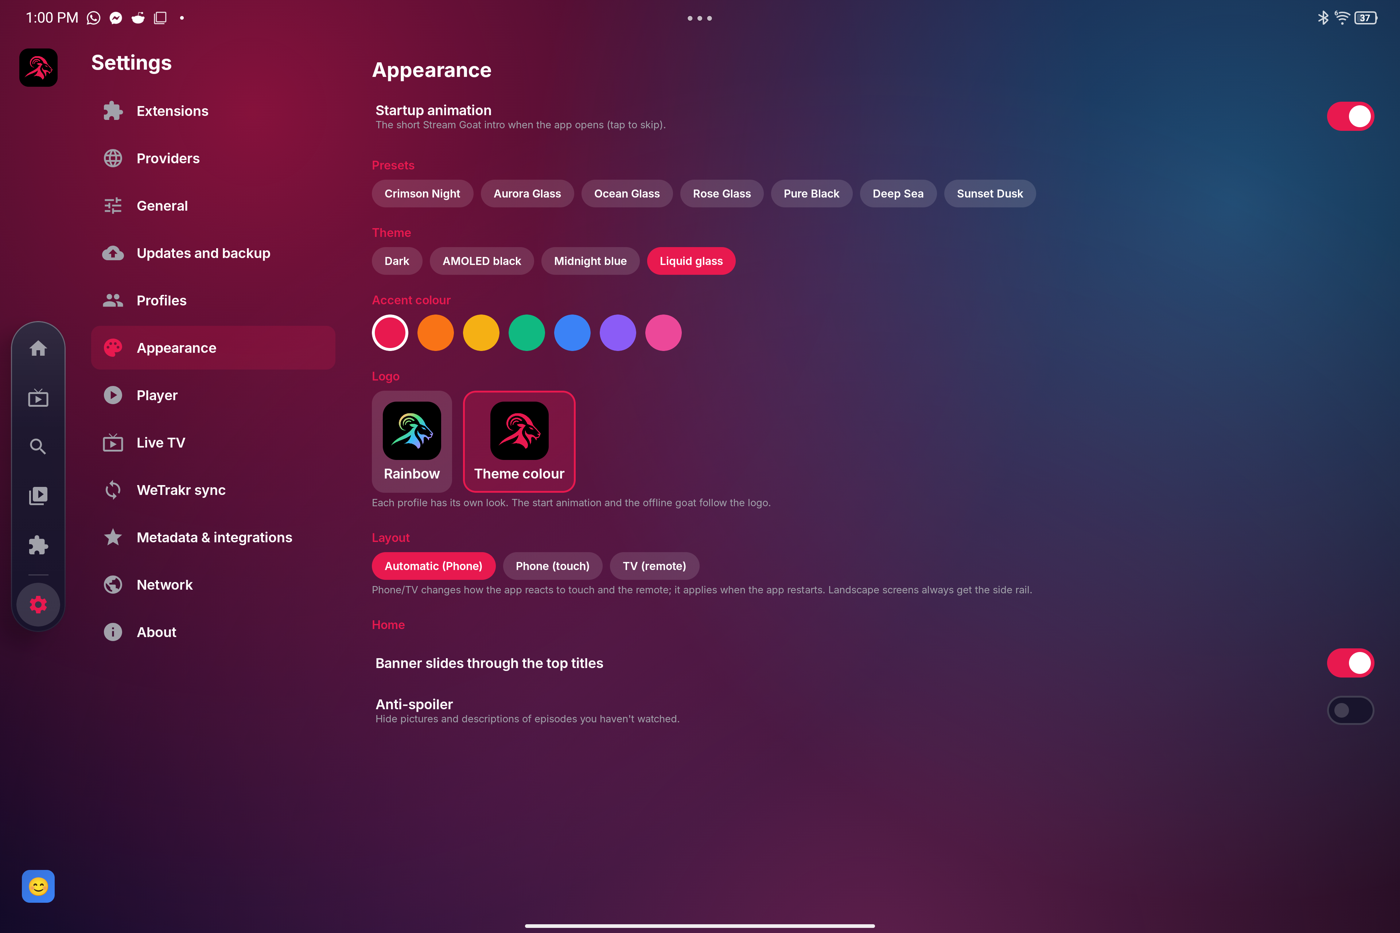
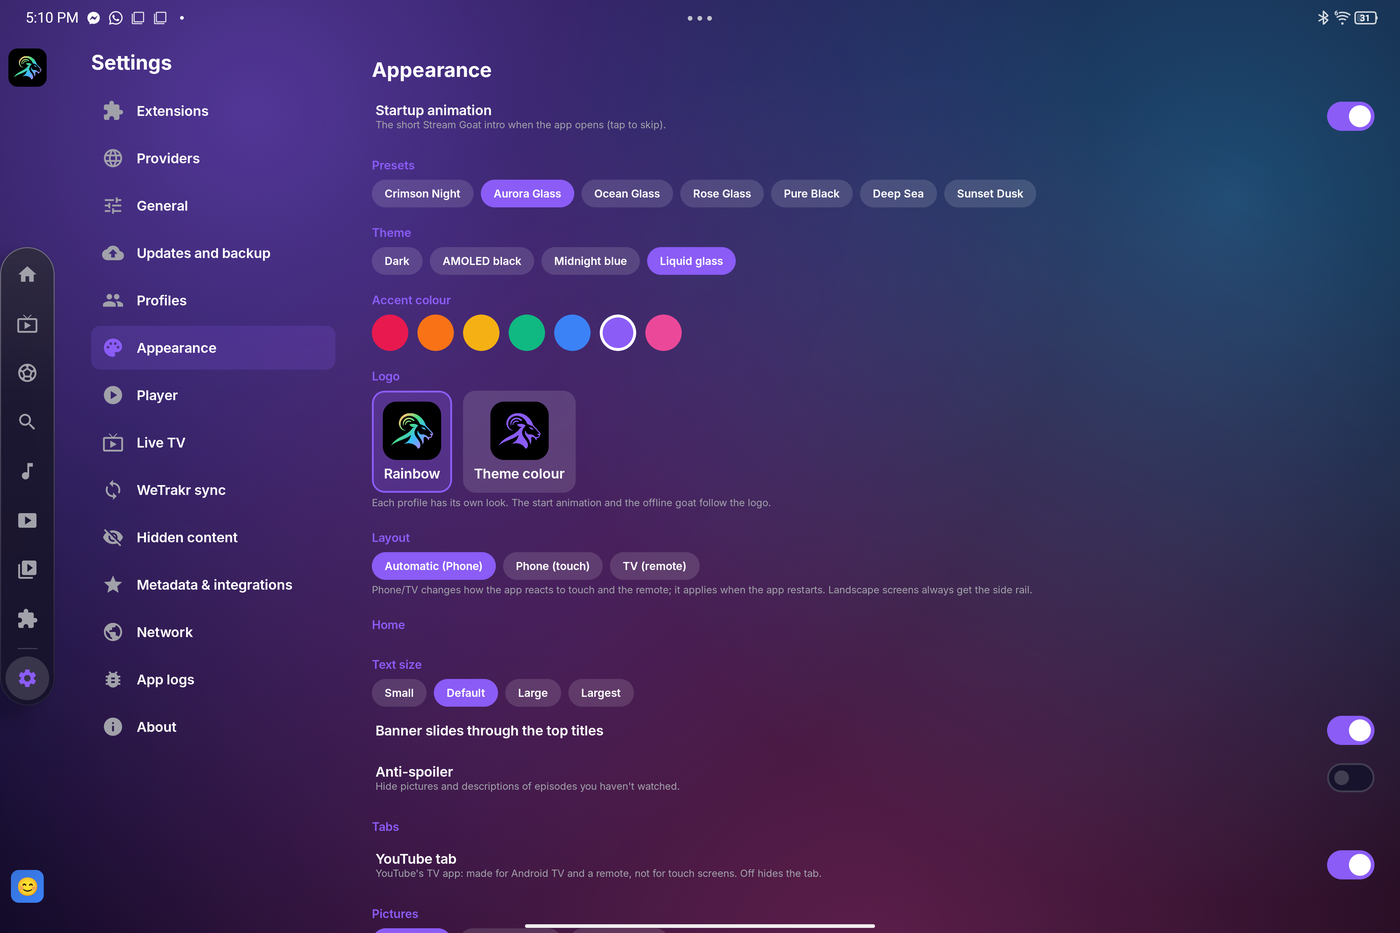
Website and README for 10.0.0: new screenshots (Sports, Music, YouTube, Live TV, Home, Appearance), 10.0.0 download links, what's new
Claude-Session: https://claude.ai/code/session_01C5BUyGsFCjr93BLj2JDqF3

diff --git a/site/index.html b/site/index.html
@@ -6,7 +6,7 @@
 <title>Stream Goat</title>
 <meta name="description" content="Stream Goat: movies, series, anime and Live TV on Android, Android TV, Windows, Mac, Linux and in your browser. Runs CloudStream extensions and Stremio add-ons, with Google Drive backup. Created by Syed Ali Hamza.">
 <meta property="og:title" content="Stream Goat">
-<meta property="og:description" content="Movies, series, anime and Live TV on Android, Android TV, Windows, Mac, Linux and in your browser. Free and open source. New in 9.0.1: a Mac app, a new look and WeTrakr sync.">
+<meta property="og:description" content="Movies, series, anime, Live TV, sports and music on Android, Android TV, Windows, Mac, Linux and in your browser. Free and open source. New in 10.0.0: updates inside the app, Sports, a new Music section, YouTube, ExoPlayer and a much smoother TV app.">
 <meta property="og:image" content="screenshots/intro.png">
 <link rel="icon" href="logo.svg" type="image/svg+xml">
 <link rel="apple-touch-icon" href="app/apple-touch-icon.png">
@@ -141,7 +141,7 @@
 
 <div class="hero">
   <div class="wrap">
-    <a class="pill" href="#new"><b>New in 9.0.1</b> · A Mac app, a new look, WeTrakr sync and more →</a>
+    <a class="pill" href="#new"><b>New in 10.0.0</b> · Sports, Music, YouTube, updates inside the app and a smoother TV →</a>
     <h1>Stream Goat</h1>
     <p class="lead">Movies, series, anime and Live TV on <b>Android</b>, <b>Android TV</b>, <b>Windows</b>, <b>Mac</b>,
       <b>Linux</b> and <b>in your browser</b>. Runs CloudStream extensions and Stremio add-ons. Free and open source.</p>
@@ -162,19 +162,19 @@
       <div class="platform" data-os="windows">
         <h3>Windows <span class="tag">Your device</span></h3>
         <p>Windows 10 and 11. Java and VLC are included, so there's nothing else to install.</p>
-        <a class="dl" href="https://github.com/sherazi5110/stream-goat/releases/latest/download/streamgoat-windows-9.0.1.msi">Installer (.msi)<small>streamgoat-windows-…msi · installs for your user, no admin needed</small></a>
-        <a class="dl" href="https://github.com/sherazi5110/stream-goat/releases/latest/download/streamgoat-windows-9.0.1-portable.zip">Portable (.zip)<small>Unzip anywhere and run Stream Goat.exe</small></a>
+        <a class="dl" href="https://github.com/sherazi5110/stream-goat/releases/latest/download/streamgoat-windows-10.0.0.msi">Installer (.msi)<small>streamgoat-windows-…msi · installs for your user, no admin needed</small></a>
+        <a class="dl" href="https://github.com/sherazi5110/stream-goat/releases/latest/download/streamgoat-windows-10.0.0-portable.zip">Portable (.zip)<small>Unzip anywhere and run Stream Goat.exe</small></a>
         <p style="margin:10px 0 0;font-size:13px">If Windows says "Windows protected your PC", click <b>More info → Run anyway</b> (the installer isn't signed yet).</p>
       </div>
       <div class="platform" data-os="mac">
         <h3>Mac <span class="tag">Your device</span></h3>
         <p>Apple Silicon Macs (M1 and newer). Java and VLC are included.</p>
-        <a class="dl" href="https://github.com/sherazi5110/stream-goat/releases/latest/download/streamgoat-macos-arm64-9.0.1.dmg">Mac app (.dmg)<small>streamgoat-macos-arm64-9.0.1.dmg · drag Stream Goat to Applications</small></a>
+        <a class="dl" href="https://github.com/sherazi5110/stream-goat/releases/latest/download/streamgoat-macos-arm64-10.0.0.dmg">Mac app (.dmg)<small>streamgoat-macos-arm64-10.0.0.dmg · drag Stream Goat to Applications</small></a>
         <p style="margin:10px 0 0;font-size:13px">The first time, macOS blocks it (not signed with an Apple certificate yet): open <b>System Settings → Privacy &amp; Security</b> and click <b>Open Anyway</b>.</p>
       </div>
       <div class="platform" data-os="android">
         <h3>Android &amp; Android TV <span class="tag">Your device</span></h3>
-        <p>Phones and tablets (touch) and TVs (remote), with the VLC player and real HDR on HDR screens.</p>
+        <p>Phones and tablets (touch) and TVs like the Google TV Streamer (remote and mouse), with ExoPlayer and VLC and real HDR on HDR screens.</p>
         <a class="dl" href="https://github.com/sherazi5110/stream-goat/releases/latest/download/streamgoat-android-arm64-v8a.apk">Phones and tablets<small>streamgoat-android-arm64-v8a.apk</small></a>
         <a class="dl" href="https://github.com/sherazi5110/stream-goat/releases/latest/download/streamgoat-android-armeabi-v7a.apk">Android TV, Fire TV, TV boxes<small>streamgoat-android-armeabi-v7a.apk</small></a>
         <a class="dl" href="https://github.com/sherazi5110/stream-goat/releases/latest/download/streamgoat-android-universal.apk">Not sure? Universal<small>Runs on any device (bigger download)</small></a>
@@ -205,24 +205,25 @@
     </div>
     <p class="note">Step-by-step help for every device: <a href="https://github.com/sherazi5110/stream-goat/blob/main/INSTALL.md">install guide</a>.
       iPhone and iPad: use the <a href="app/">web version</a> and add it to your home screen.</p>
-    <p class="note"><b>Updating on Android?</b> Uninstall the old version first. To keep your extensions, lists and settings,
-      back them up before you uninstall (Settings → Updates and backup: Google Drive, or <i>Back up</i> to a file) and restore after installing.</p>
+    <p class="note"><b>Updating to 10.0.0 on Android?</b> One last time, uninstall the old version first: back up before you
+      uninstall (Settings → Updates and backup: Google Drive, or <i>Back up</i> to a file) and restore after installing. From the next
+      version on, updates install over the old one from inside the app (Settings → Updates and backup), keeping everything.</p>
   </div>
 </section>
 
 <section id="new">
   <div class="wrap">
-    <h2>What's new in 9.0.1</h2>
-    <p class="sub">The biggest update yet. Every change is on the <a href="releases.html">Releases</a> page.</p>
+    <h2>What's new in 10.0.0</h2>
+    <p class="sub">A big update for TVs and new sections for sports and music. Every change is on the <a href="releases.html">Releases</a> page.</p>
     <div class="features">
-      <div class="feature new"><div class="icon">🍎</div><h3>Stream Goat for Mac</h3><p>A real app for Apple Silicon Macs (M1 and newer), with Java and VLC included.</p></div>
-      <div class="feature new"><div class="icon">🐐</div><h3>New logo and start animation</h3><p>The goat on black in your accent colour (or rainbow), opening over glowing waves.</p></div>
-      <div class="feature new"><div class="icon">🫧</div><h3>Liquid Glass, reworked</h3><p>Frosted, readable panels with light rims and a blurred top bar, like Apple's liquid glass.</p></div>
-      <div class="feature new"><div class="icon">🔄</div><h3>WeTrakr sync</h3><p>What you watch shows as now watching, and is marked watched at 80%. Each profile has its own account.</p></div>
-      <div class="feature new"><div class="icon">🐞</div><h3>Report a glitch</h3><p>Shake the phone or press F12: a filled-in GitHub issue with a screenshot. Crashes are caught and offered next time.</p></div>
-      <div class="feature new"><div class="icon">📺</div><h3>Live TV that just works</h3><p>Free channels by country, region-lock detection, and a check that hides channels with broken links.</p></div>
-      <div class="feature new"><div class="icon">💬</div><h3>Subtitle style and sync</h3><p>Size, colour, background and position, plus subtitle and audio sync, right in the player.</p></div>
-      <div class="feature new"><div class="icon">🛠</div><h3>Fixes</h3><p>Find on TMDB crash fixed, restore brings extensions back, sources stay in portrait, smoother phone bar.</p></div>
+      <div class="feature new"><div class="icon">⬆</div><h3>Updates inside the app</h3><p>New versions download and install from the app, with a progress bar. A Test builds switch gets the newest test versions.</p></div>
+      <div class="feature new"><div class="icon">⚽</div><h3>Sports</h3><p>Live scores for football, cricket, basketball, tennis, F1 and more: a live banner, live now, coming up, results and sports news.</p></div>
+      <div class="feature new"><div class="icon">🎵</div><h3>Music</h3><p>Like YouTube Music: moods, playlists, liked songs, Up next and recommendations. On tablets and TVs the player sits beside the list.</p></div>
+      <div class="feature new"><div class="icon">▶</div><h3>YouTube</h3><p>YouTube's TV app with its ads removed, and sign-in with a code, right in Stream Goat. Made for TVs.</p></div>
+      <div class="feature new"><div class="icon">📺</div><h3>Smoother on TV</h3><p>The tablet layout on TVs, a remote that moves like the official app's, a lighter Home, and full mouse support (click, drag rows).</p></div>
+      <div class="feature new"><div class="icon">🎬</div><h3>ExoPlayer and VLC</h3><p>Choose the player per kind of source, switch while watching, or be asked each time. NetMirror and similar sources play properly.</p></div>
+      <div class="feature new"><div class="icon">📡</div><h3>Live TV ready to go</h3><p>New installs start with free playlists (your country, all countries, Free-TV), and your country choice is remembered.</p></div>
+      <div class="feature new"><div class="icon">🛠</div><h3>Fixes</h3><p>Skip intro for anime listed as series, MovieBox adult filter, hold OK for a title's menu, back to where you were, crash fixes.</p></div>
     </div>
     <p class="more"><a class="btn" href="releases.html">All release notes</a></p>
   </div>
@@ -245,7 +246,7 @@
       <div class="feature"><div class="icon">⏭</div><h3>Skip intro</h3><p>Skip intros, recaps and credits in anime, and a countdown to the next episode.</p></div>
       <div class="feature"><div class="icon">👨👩👧</div><h3>Profiles and kids mode</h3><p>Everyone gets their own history and list; kids profiles with a parent PIN.</p></div>
       <div class="feature"><div class="icon">⭐</div><h3>Ratings and artwork</h3><p>TMDB, IMDb and AniList ratings, cast, trailers and backdrops.</p></div>
-      <div class="feature"><div class="icon">▶</div><h3>VLC player built in</h3><p>Plays almost any format, with source switching, online subtitles, audio languages and zoom.</p></div>
+      <div class="feature"><div class="icon">▶</div><h3>ExoPlayer and VLC built in</h3><p>Plays almost any format, with source switching, online subtitles, audio languages, volume boost, 5.1 surround and zoom.</p></div>
       <div class="feature"><div class="icon">🎨</div><h3>Your look</h3><p>Liquid glass, dark, AMOLED and light themes, any accent colour, and your own wallpaper. The goat logo in rainbow or your colour.</p></div>
       <div class="feature"><div class="icon">🐐</div><h3>40 profile pictures</h3><p>Goats in nine colours, a king, a DJ, a cowboy and more, plus 25 animals.</p></div>
     </div>
@@ -255,10 +256,13 @@
 <section id="screenshots">
   <div class="wrap">
     <h2>Screenshots</h2>
-    <p class="sub">From the Windows and Linux app. Tap a picture to see it bigger.</p>
+    <p class="sub">From the Android app (tablet) and the Windows app. Tap a picture to see it bigger.</p>
     <div class="gallery">
-      <figure><img src="screenshots/intro.png" alt="Start animation" loading="lazy"><figcaption>The start animation</figcaption></figure>
+      <figure><img src="screenshots/android-sports.png" alt="Sports" loading="lazy"><figcaption>Sports: live scores</figcaption></figure>
+      <figure><img src="screenshots/android-music.png" alt="Music" loading="lazy"><figcaption>Music, with the player beside the list</figcaption></figure>
       <figure><img src="screenshots/android-livetv.png" alt="Live TV" loading="lazy"><figcaption>Live TV</figcaption></figure>
+      <figure><img src="screenshots/android-youtube.png" alt="YouTube" loading="lazy"><figcaption>YouTube</figcaption></figure>
+      <figure><img src="screenshots/intro.png" alt="Start animation" loading="lazy"><figcaption>The start animation</figcaption></figure>
       <figure><img src="screenshots/android-appearance.png" alt="Appearance" loading="lazy"><figcaption>Themes, colours and logo</figcaption></figure>
       <figure><img src="screenshots/android-profile-editor.png" alt="Profile editor" loading="lazy"><figcaption>Profiles</figcaption></figure>
       <figure><img src="screenshots/android-addons.png" alt="Add-ons" loading="lazy"><figcaption>Your own add-ons</figcaption></figure>
@@ -306,8 +310,8 @@
     Stream Goat doesn't host any content: what you watch comes from the extensions and add-ons you choose to install.<br>
     <a href="privacy.html">Privacy policy</a> · <a href="https://buymeacoffee.com/syedalihamza" target="_blank" rel="noopener">Buy me a coffee</a> · <a href="https://discord.gg/PUmEQzJSa" target="_blank" rel="noopener">Discord</a>
   </div>
-  <p style="max-width:760px;margin:14px auto 0;font-size:12px;opacity:.7">Testing notes (9.0.1): the Mac and Linux apps haven't been tested by hand yet. On Windows the first launch after installing can be slow for a minute while the app sets itself up; after that it runs smoothly.</p>
-  <p style="max-width:760px;margin:14px auto 0;font-size:12px;opacity:.7">Stream Goat is only a media player. It does not host, provide or link to any content and ships with no content sources; you add your own and are responsible for having the rights to what you play. Titles, posters and logos in screenshots belong to their owners and are blurred.</p>
+  <p style="max-width:760px;margin:14px auto 0;font-size:12px;opacity:.7">Testing notes (10.0.0): the Mac and Linux apps haven't been tested by hand yet. On Windows the first launch after installing can be slow for a minute while the app sets itself up; after that it runs smoothly.</p>
+  <p style="max-width:760px;margin:14px auto 0;font-size:12px;opacity:.7">Stream Goat is only a media player. It does not host, provide or link to any content and ships with no content sources; you add your own and are responsible for having the rights to what you play. Titles, posters, artwork and channel logos in screenshots belong to their owners and are blurred.</p>
 </footer>
 
 <dialog id="zoom"><img alt=""></dialog>

diff --git a/README.md b/README.md
@@ -7,7 +7,7 @@ Created by <b>Syed Ali Hamza</b></p>
 
 ![Stream Goat start animation: the goat logo over glowing waves](docs/screenshots/intro.png)
 
-> **Testing notes (9.0.1).** The Mac and Linux apps are built and checked automatically but haven't been tested by hand yet, so please report anything odd. On Windows the first launch after installing can be slow and laggy for a minute while the app sets itself up and loads an earlier backup; give it a moment and it runs smoothly after that.
+> **Testing notes (10.0.0).** The Mac and Linux apps are built and checked automatically but haven't been tested by hand yet, so please report anything odd. On Windows the first launch after installing can be slow and laggy for a minute while the app sets itself up and loads an earlier backup; give it a moment and it runs smoothly after that.
 
 > **Disclaimer.** Stream Goat is only a media player and organiser. It does not host, provide, link to or endorse any movies, shows, channels or other content, and it ships with no content sources. You add your own extensions, add-ons and playlists and are responsible for having the rights to whatever you play. Titles, posters and logos belong to their owners; in the screenshots below they are blurred.
 
@@ -33,12 +33,19 @@ library and downloads carry over.)*
 
 ## What it does
 
+> **New in 10.0.0:** updates inside the app, a **Sports** section with live scores, a **Music** section like YouTube
+> Music, **YouTube** (its TV app, ads removed), **ExoPlayer** next to VLC, and a much smoother TV app (tablet layout,
+> official-app remote, mouse support). Android: uninstall the old version once to install 10.0.0 (back up first);
+> later versions update from inside the app. [All changes](docs/releases/10.0.0.md)
+
 - **One app on every screen:** Android phones, tablets and TV, Windows, Mac, Linux and the web, with the same look.
 - **Your own sources:** CloudStream extensions and repositories, Stremio add-ons, and Live TV from M3U playlists,
   Xtream Codes logins or the free iptv-org lists by country. The app comes with none: you add what you use.
 - **Live TV** with a TV guide, favourites, region-lock detection and an automatic check that hides channels with broken
   links.
-- **A real player (VLC):** subtitles from the source or online, subtitle style and sync, audio sync, translation of
+- **Sports and music:** live scores for every big sport with news, and a music section with moods, playlists, liked
+  songs and recommendations. YouTube's TV app (ads removed) has its own tab.
+- **Two players (ExoPlayer and VLC):** subtitles from the source or online, subtitle style and sync, audio sync, translation of
   subtitles, skip intro, next-episode countdown, anime enhance and HDR.
 - **Downloads** for offline watching, with fast multi-connection downloading and quality choice.
 - **Profiles** with animal pictures, PINs and kids profiles.
@@ -54,8 +61,10 @@ library and downloads carry over.)*
 
 | | |
 |---|---|
-| ![Start animation](docs/screenshots/android-intro.png) | ![Home](docs/screenshots/android-home.png) |
-| ![Live TV](docs/screenshots/android-livetv.png) | ![Appearance](docs/screenshots/android-appearance.png) |
+| ![Home](docs/screenshots/android-home.png) | ![Sports: live scores](docs/screenshots/android-sports.png) |
+| ![Music, with the player beside the list](docs/screenshots/android-music.png) | ![Live TV](docs/screenshots/android-livetv.png) |
+| ![YouTube](docs/screenshots/android-youtube.png) | ![Appearance](docs/screenshots/android-appearance.png) |
+| ![Start animation](docs/screenshots/android-intro.png) | |
 | ![Profile editor](docs/screenshots/android-profile-editor.png) | ![Add-ons](docs/screenshots/android-addons.png) |
 | ![WeTrakr sync](docs/screenshots/android-wetrakr.png) | ![Library](docs/screenshots/android-library.png) |
 
@@ -87,12 +96,13 @@ a newer `.msi` updates in place. [More: INSTALL.md → Windows](INSTALL.md)
 | File | For |
 |---|---|
 | `streamgoat-android-arm64-v8a.apk` | Most phones and tablets from the last ~8 years |
-| `streamgoat-android-armeabi-v7a.apk` | Android TV, Google TV, Fire TV Stick and most TV boxes |
+| `streamgoat-android-armeabi-v7a.apk` | Android TV, Google TV, Fire TV Stick and most TV boxes (the Google TV Streamer can also use arm64-v8a) |
 | `streamgoat-android-universal.apk` | Not sure? This one runs everywhere (larger download) |
 
 Open the `.apk` on the device and allow *Install unknown apps* when asked. On a TV, use the **Downloader** app (or
-`adb install`). The app has a touch layout for phones and a remote-friendly layout for TV, the VLC player, and real
-**HDR** on HDR screens. [More: INSTALL.md → Android](INSTALL.md#android-phones-tablets-and-android-tv)
+`adb install`). The app has a touch layout for phones and a remote-friendly layout for TV (a mouse works too),
+ExoPlayer and VLC, and real **HDR** on HDR screens. **Updating to 10.0.0:** uninstall the old version once (back up
+first: Settings → Updates and backup, then restore); from then on new versions install from inside the app. [More: INSTALL.md → Android](INSTALL.md#android-phones-tablets-and-android-tv)
 
 ### Mac (Apple Silicon, from 9.0.1)
 
